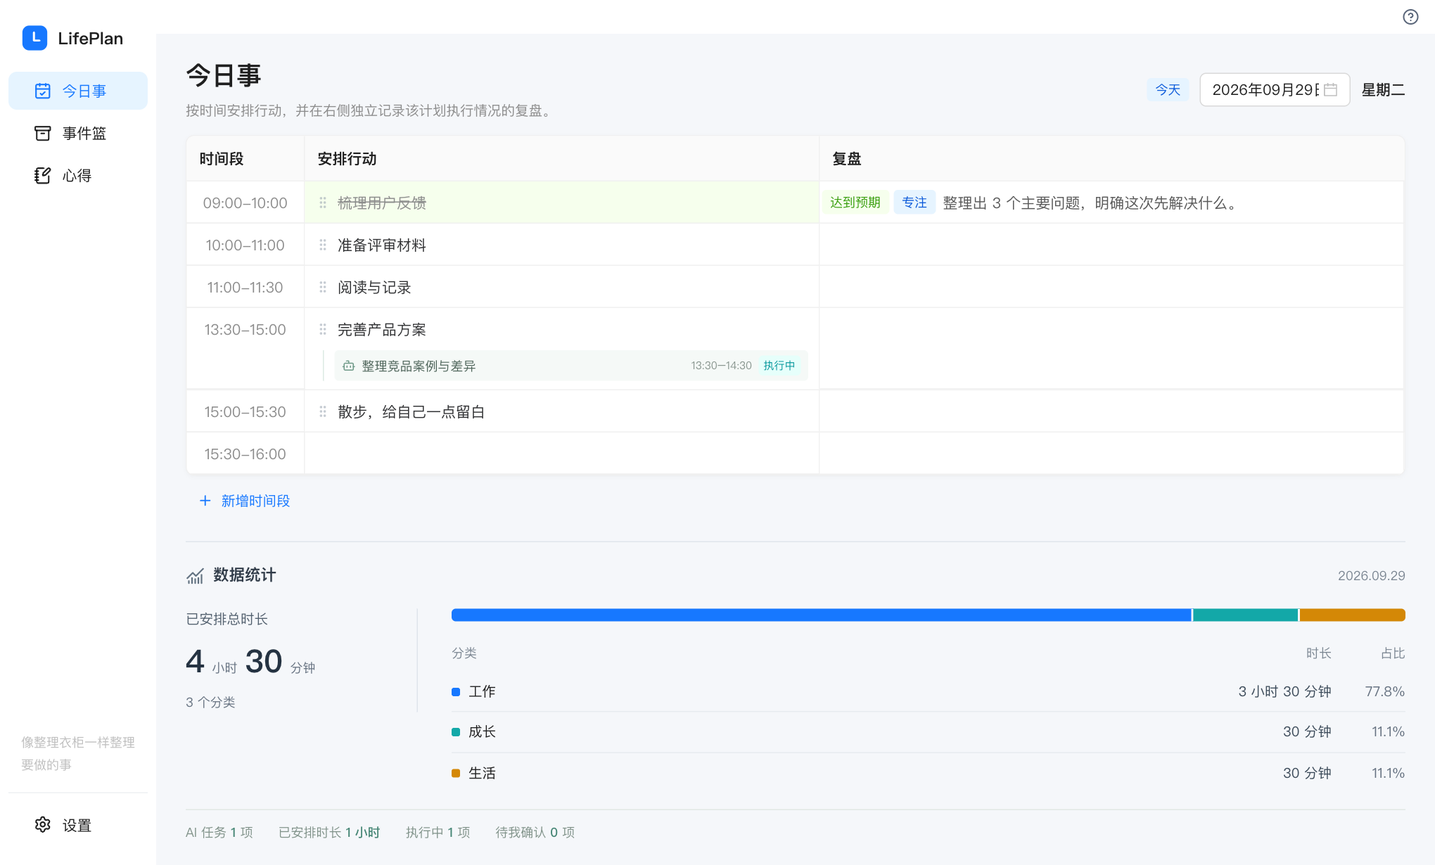
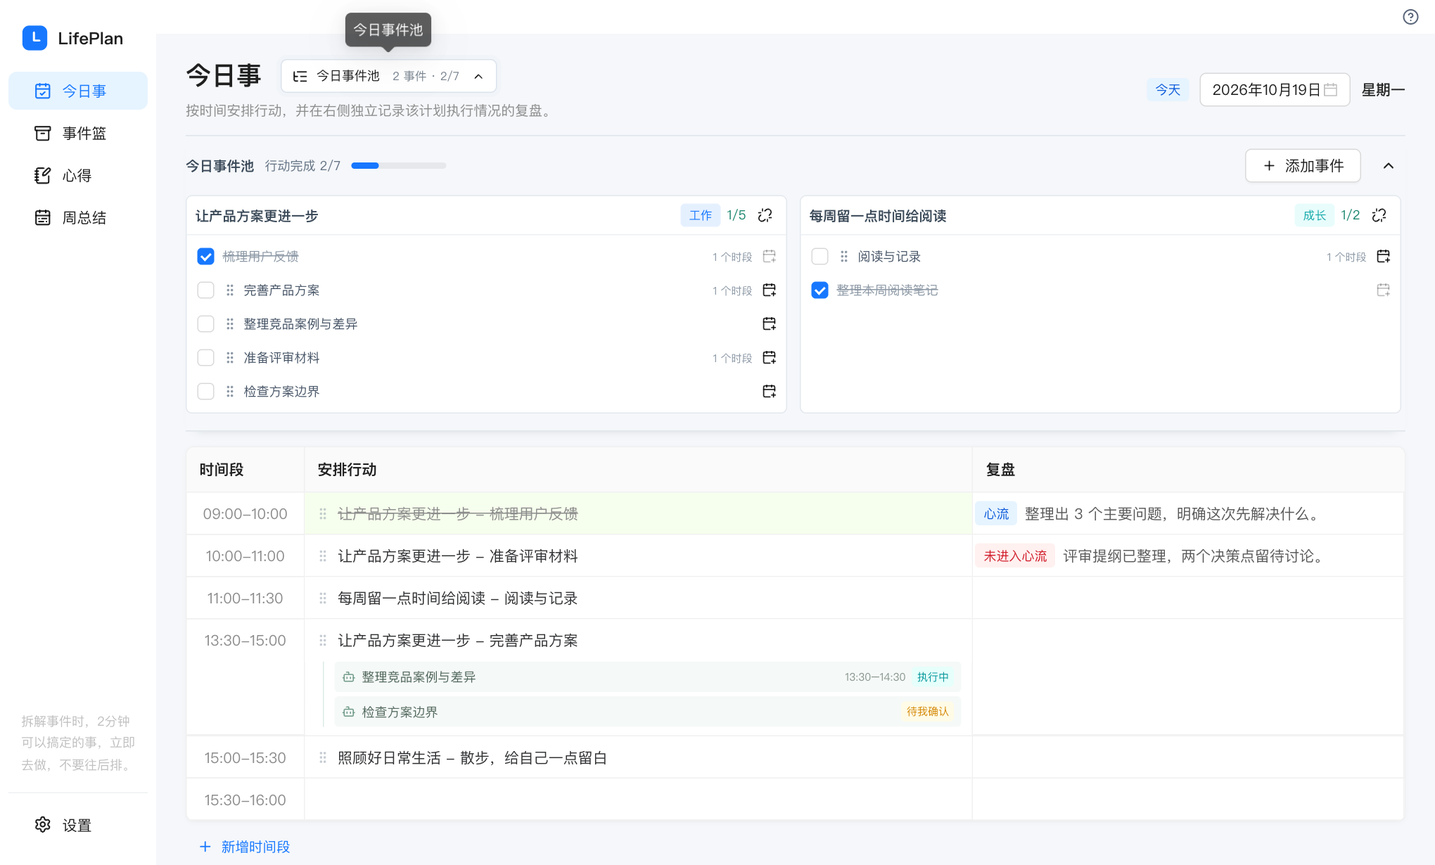
feat(website): refresh product story, screenshots and v1.1.9 downloads
官网补齐待梳理与直接推进、今日事件池吸顶与拖放、心流复盘、当日事项和周总结；新增近期更新与统计口径、升级备份说明。

重拍虚构示例数据的真实客户端界面，图库增加每日回顾和周总结；公开发布 Windows x64 与 macOS Apple Silicon v1.1.9 并校验全部七个发布文件。

补充五种屏幕尺寸、图库放大、键盘导航、升级说明及预期下载版本检查；不改域名首页与用户历史数据。

diff --git a/website/src/main.tsx b/website/src/main.tsx
@@ -1,6 +1,6 @@
 import { useEffect, useRef, useState, type ReactNode } from "react";
 import { createRoot } from "react-dom/client";
-import { ArrowDown, ArrowDownToLine, ArrowRight, ArrowUpRight, BookOpen, Bot, CalendarDays, Check, ChevronDown, CodeXml, Copy, Inbox, Laptop, ListChecks, LockKeyhole, Menu, Monitor, Plus, SlidersHorizontal, X, ZoomIn } from "lucide-react";
+import { ArrowDown, ArrowDownToLine, ArrowRight, ArrowUpRight, BookOpen, Bot, CalendarDays, CalendarRange, ChartNoAxesCombined, Check, ChevronDown, CodeXml, Copy, Inbox, Laptop, ListChecks, LockKeyhole, Menu, Monitor, Plus, SlidersHorizontal, X, ZoomIn } from "lucide-react";
 import downloadData from "./downloads.json";
 import "./styles.css";
 
@@ -11,16 +11,21 @@ const base = import.meta.env.BASE_URL;
 const source = "https://github.com/ouyangyu98/LifePlan";
 const image = (name: string) => `${base}images/${name}.png`;
 const productViews = [
-  { id: "today", label: "今日事", icon: CalendarDays, title: "把行动，放进真实的一天。", description: "按时间安排行动，在同一行记录复盘。做了什么、下一步是什么，一眼就能看清。", alt: "今日事界面：六个时间段、行动、AI 并行任务与复盘", file: "today" },
-  { id: "inbox", label: "事件篮", icon: Inbox, title: "大事拆小，进度一点点积累。", description: "先收集，再拆成可执行的小行动。用分类整理事情，在列表和看板之间自由切换。", alt: "事件篮看板：工作、成长、生活三类事项与子行动", file: "inbox" },
+  { id: "today", label: "今日事", icon: CalendarDays, title: "先选今天的事，再给行动安排时间。", description: "把事件加入默认收起的今日事件池，拖动子行动到空时间段。池子展开后吸顶，晚一点的安排也能从容调整；行动可以直接勾选完成。", alt: "今日事界面：今日事件池、事件与行动标题、AI 并行任务及独立时段复盘", file: "today" },
+  { id: "inbox", label: "事件篮", icon: Inbox, title: "先想清楚，再开始推进。", description: "在“待梳理”里记录想法、拆分和编辑行动。准备好后点“开始推进”，直接进入进行中，已拆的行动完整保留。分类、列表和看板帮助你看清各件事。", alt: "事件篮看板：按工作、成长、生活分类的事件和二级行动", file: "inbox" },
   { id: "insights", label: "心得", icon: BookOpen, title: "留住想法，也留住成长。", description: "一页持续编辑的个人笔记，输入自动保存。值得留下的思考，不必再散落各处。", alt: "心得编辑器：个人行动和 AI 协作的示例笔记", file: "insights" },
+  { id: "statistics", label: "每日回顾", icon: ChartNoAxesCombined, title: "时间去了哪里，事情推进到哪里。", description: "按计划安排的时间段统计分类时长，查看心流时段占比与复盘覆盖率。当天推进、当天完成的行动分开统计，按事件分组、按时长排序，点开即可回看安排与复盘。", alt: "每日数据统计：分类时长、心流时段占比、复盘覆盖率与当日事项分组", file: "statistics" },
+  { id: "weekly", label: "周总结", icon: CalendarRange, title: "回看一周，也给下一周留一点思考。", description: "在一页切换历史周次，查看分类时间分配，写下自动保存的本周思考。下方按事件汇总处理与完成事项，默认收起，需要时再展开细看。", alt: "周总结：历史周记录、分类时间分配、本周思考以及可折叠的本周事项", file: "weekly" },
 ] as const;
 const questions = [
-  { title: "LifePlan 适合什么样的使用方式？", answer: "适合希望把多件事情持续推进的人：在事件篮中整理和拆解，在今日事中分配时间，再记录复盘。既可以管理工作，也可以为学习和生活留出位置。不需要一次启用所有功能。" },
-  { title: "这里的 AI 任务会自动执行吗？", answer: "不会。LifePlan 负责安排和跟踪 AI 任务，你仍需要在自己的 AI 工具中执行，再回到这里更新状态、记录结果。AI 任务挂在主行动下面，不会替代主行动，也不会把并行时间重复算作你的个人时长。" },
+  { title: "LifePlan 适合什么样的使用方式？", answer: "适合希望把多件事情持续推进的人：先在事件篮的待梳理中拆解行动，再开始推进；每天挑选事件放入今日池，拖动行动安排时间，记录进展。一天结束查看当日事项，一周结束写周总结。可以管理工作、学习和生活，不需要一次启用所有功能。" },
+  { title: "这里的 AI 任务会自动执行吗？", answer: "不会。LifePlan 负责安排和跟踪 AI 任务，你仍需要在自己的 AI 工具中执行，再回到这里手动更新状态、记录结果。可以从事件池多选行动，一次挂载到主行动下方；完成 AI 行动不会自动完成主行动，并行时长也不叠加到你的主行动安排时长中。" },
+  { title: "时间、推进事项和完成事项分别怎么算？", answer: "分类时长按已安排行动的时间段统计，不是自动测得的实际工作时长。日统计和周总结中的推进或处理事项，按所选日期或周次安排过的行动去重；完成事项按行动实际标记完成的日期归属，包含没有排入日程的行动。恢复为待办后，不再列入完成事项。事件“已完成”只表示当前状态，不推断历史完成日期。" },
+  { title: "复盘需要再填一次行动标题吗？", answer: "不需要。计划显示事件与行动，复盘记录本时段推进到了哪里、临时改做了什么、遇到了什么阻碍。没有特殊变化时，可点击“按计划推进”填入记录，再确认心流状态并保存；它不会自动把行动标记完成。已有复盘正文会保留。" },
   { title: "需要注册账号吗？数据存在哪里？", answer: "客户端无需注册即可使用，事件、日程和笔记保存在本机。它不是云端同步服务，不同电脑的数据不会自动同步。请妥善保留本地数据和备份。" },
   { title: "会覆盖原版或个人开发版的数据吗？", answer: "不会。安装后的应用名为 LifePlan OY，安装身份、数据目录和更新源均与原版及 LifePlan Dev 分开。首次启动是空白数据，不会自动导入旧数据；切换使用前请先备份，不要直接覆盖数据库。" },
-  { title: "不需要番茄钟、奖励或笔记，可以隐藏吗？", answer: "可以。在设置中按需开启或关闭工作日志、日程模板、奖励池、番茄钟、心得和数据统计。关闭功能不会让它继续占据你的日常界面。" },
+  { title: "不需要番茄钟、奖励或笔记，可以隐藏吗？", answer: "可以。设置里可选工作日志、日程模板、奖励池、番茄钟、心得、周总结、数据统计、AI 并行，以及复盘中的“是否达到预期”。数据统计关闭时也隐藏当日事项；AI 并行关闭时隐藏相关入口和统计。关闭功能不删除已有记录。" },
+  { title: "更新版本会丢失历史数据吗？", answer: "同一 LifePlan OY 正式版沿用原有数据目录，不需要重新导入。客户端启动时会尝试备份数据库，升级前仍建议另行备份事件、日程、笔记以及本地设置。不要删除应用数据目录，也不要用开发版或示例数据库覆盖它。不同版本及不同电脑之间的数据不会自动合并。" },
   { title: "支持哪些设备？", answer: "仅维护 Windows x64 和 Mac M 系列（Apple Silicon）版本。不提供 Mac Intel、iPhone、Android 或 Linux 安装包；这个网站是产品介绍与下载站，不是在线版客户端。" },
   { title: "这是原作者的官方发行版吗？", answer: "不是。这是 ouyangyu98 基于 9527GC/LifePlan 持续维护的独立版本。功能与原版有所不同，源代码、版本说明与问题反馈均在本页面链接的 GitHub 仓库中。" },
 ];
@@ -69,6 +74,7 @@ function Website() {
         <a className="brand" href="#main" aria-label="LifePlan 首页"><img src={image("logo")} alt="" width="30" height="30" /><span>LifePlan</span><span className="edition">个人维护版</span></a>
         <nav className={menuOpen ? "nav-links open" : "nav-links"} aria-label="主导航">
           <a href="#product" onClick={() => setMenuOpen(false)}>产品一览</a>
+          <a href="#updates" onClick={() => setMenuOpen(false)}>近期更新</a>
           <a href="#parallel" onClick={() => setMenuOpen(false)}>与 AI 并行</a>
           <a href="#questions" onClick={() => setMenuOpen(false)}>常见问题</a>
           <ExternalLink href={source} className="source-link"><CodeXml size={17} />源代码<ArrowUpRight size={14} /></ExternalLink>
@@ -83,9 +89,9 @@ function Website() {
           <div className="eyebrow"><span className="status-dot" />给每一天，一个清晰的开始</div>
           <h1 id="hero-title">LifePlan<span className="hero-period">.</span></h1>
           <p className="hero-tagline">从想做，到做到。</p>
-          <p className="hero-description">把事情拆成行动，把行动放进每一天。<br />和 AI 并行推进，也给自己留一点余地。</p>
+          <p className="hero-description">先梳理，再安排，把事情一点点向前推进。<br />和 AI 并行，也用每日复盘与周总结看清自己的节奏。</p>
           <div className="hero-actions"><a href="#downloads" className="button primary">{downloads.version ? "下载 LifePlan" : "查看下载版本"}<ArrowDownToLine size={18} /></a><a href="#product" className="button text-button">先看一看<ArrowDown size={17} /></a></div>
-          <div className="hero-meta"><span>Windows & macOS</span><span>本地保存</span><span>无需注册</span></div>
+          <div className="hero-meta"><span>Windows x64 & Mac M</span><span>本地保存</span><span>无需注册</span></div>
         </div>
         <img className="hero-product" src={image("timeline")} alt="LifePlan 时间表：把每日行动、AI 并行任务和复盘放在一起" width="1764" height="536" fetchPriority="high" />
       </section>
@@ -117,15 +123,15 @@ function Website() {
 
       <section className="parallel-section" id="parallel" aria-labelledby="parallel-title">
         <div className="section">
-          <div className="section-heading"><div><div className="eyebrow">02 / 人与 AI，各自向前</div><h2 id="parallel-title">你在思考。<br /><span>AI 也在推进。</span></h2></div><p>一段时间，不止一条进度。<br />主行动下方，给 AI 的并行任务留一个位置。</p></div>
+          <div className="section-heading"><div><div className="eyebrow">02 / 人与 AI，各自向前</div><h2 id="parallel-title">你在思考。<br /><span>AI 也在推进。</span></h2></div><p>一次选择，挂载多个 AI 行动。<br />从同一事件池出发，分别记录状态与结果。</p></div>
           <div className="parallel-example">
             <div className="example-header"><span><CalendarDays size={16} />一个下午的安排</span><span>13:30 — 15:00</span></div>
-            <img src={image("parallel")} alt="主行动“完善产品方案”下挂载 AI 任务“整理竞品案例与差异”" width="1764" height="126" loading="lazy" />
+            <img src={image("parallel")} alt="主行动“完善产品方案”下并行挂载“整理竞品案例与差异”和“检查方案边界”两个 AI 任务" width="1764" height="190" loading="lazy" />
             <div className="example-legend"><span><span className="legend-dot human" />我负责判断、创作和取舍</span><span><Bot size={17} />AI 整理资料，我回看结果</span></div>
           </div>
           <div className="parallel-notes">
-            <div><span className="small-number">01</span><h3>同一个事件池</h3><p>普通行动和 AI 任务来自同一处，不必维护两套清单。</p></div>
-            <div><span className="small-number">02</span><h3>各自的进度</h3><p>AI 任务有自己的状态和结果，完成它不会自动完成主行动。</p></div>
+            <div><span className="small-number">01</span><h3>多选，一起安排</h3><p>搜索事件或行动，勾选多项后统一挂载。事件行动、重复行动与临时行动沿用原有入口。</p></div>
+            <div><span className="small-number">02</span><h3>跟踪，不替你执行</h3><p>在自己的 AI 工具里执行，回到这里更新状态、回看结果。关联行动的完成状态同步，主行动不受影响。</p></div>
             <div><span className="small-number">03</span><h3>不打扰平常的一天</h3><p>不挂 AI 任务时，照常使用简洁的时间表。</p></div>
           </div>
           <p className="honest-note"><Bot size={16} />LifePlan 记录与跟踪 AI 任务，不代替你在 AI 工具中执行任务。</p>
@@ -135,7 +141,20 @@ function Website() {
       <section className="section choice-section" aria-labelledby="choice-title">
         <div className="choice-copy"><div className="eyebrow">03 / 保留需要的，关掉多余的</div><h2 id="choice-title">工具，应该适应你。</h2><p>不是每一天都需要完整的效率仪式。<br />保留事件篮和今日事，其余功能由你决定。</p><span className="choice-footnote"><SlidersHorizontal size={17} />在客户端设置中按需开启</span></div>
         <div className="optional-list">
-          {[["心得", "持续编辑，自动保存"], ["数据统计", "查看已安排时长与分类占比"], ["番茄钟", "为专注和休息留出节奏"], ["工作日志", "把一天的工作整理成记录"], ["日程模板", "复用适合自己的时间安排"], ["奖励池", "给自己的推进一些鼓励"]].map(([name, detail]) => <div className="optional-item" key={name}><Check size={16} /><span>{name}</span><span>{detail}</span></div>)}
+          {[["心得", "持续编辑，自动保存"], ["周总结", "分类时间分配、事项与个人思考"], ["数据统计", "心流、分类时长与当日事项"], ["AI 并行", "多选挂载，分别跟踪结果"], ["达到预期", "复盘评价按需开启"], ["番茄钟", "为专注和休息留出节奏"], ["工作日志", "把一天的工作整理成记录"], ["日程模板", "复用适合自己的时间安排"], ["奖励池", "给自己的推进一些鼓励"]].map(([name, detail]) => <div className="optional-item" key={name}><Check size={16} /><span>{name}</span><span>{detail}</span></div>)}
+        </div>
+      </section>
+
+      <section className="updates-section" id="updates" aria-labelledby="updates-title">
+        <div className="section">
+          <div className="section-heading"><div><div className="eyebrow">近期更新</div><h2 id="updates-title">从梳理，到每天的推进与回顾。</h2></div>
+            <ExternalLink href={downloads.releaseUrl} className="updates-release-link">{downloads.version ?? "查看版本"} 版本说明<ArrowUpRight size={15} /></ExternalLink>
+          </div>
+          <div className="updates-list">
+            <article><ListChecks size={20} /><div><h3>待梳理，先把下一步想清楚</h3><p>不必先进入进行中，就能添加、编辑和整理行动。“开始推进”直接切换状态，保留原有拆解。</p></div></article>
+            <article><CalendarDays size={20} /><div><h3>今日事件池，拖动安排更顺手</h3><p>选择事件时可查看二级行动。池内直接勾选完成，展开后吸顶，把行动拖到晚间时段也不必来回翻页。</p></div></article>
+            <article><ChartNoAxesCombined size={20} /><div><h3>日统计和周总结，说清推进与完成</h3><p>按安排时长查看分类占比；事项按事件汇总，默认收起、时长排序。复盘不再重复标题，进展和思考各有位置。</p></div></article>
+          </div>
         </div>
       </section>
 
@@ -153,7 +172,7 @@ function Website() {
           </div>
           <p className="copy-status" role="status">{copyError || (copied ? "校验值已复制" : "")}</p>
           <div className="download-footer"><p><LockKeyhole size={16} />无需账号，本地保存。暂不提供手机端与云同步。</p><ExternalLink href={downloads.releaseUrl}>版本说明与历史下载<ArrowUpRight size={15} /></ExternalLink></div>
-          <details className="installation-note"><summary>安装前需要知道什么？<Plus size={16} /></summary><p>安装后的应用名为 LifePlan OY，与原版和 LifePlan Dev 独立存储，首次打开不会自动带入旧数据。下载与你的系统和芯片匹配的安装包，Mac 可在“关于本机”中查看芯片类型。当前尚未提供商业代码签名或 Apple 公证，Mac 安装包使用临时本地签名，系统仍可能拦截；请先确认下载来源与文件校验值，不要关闭系统安全保护。切换版本前，请保留已有数据和备份。</p></details>
+          <details className="installation-note"><summary>安装与更新前需要知道什么？<Plus size={16} /></summary><p>安装后的应用名为 LifePlan OY，与原版和 LifePlan Dev 独立存储。首次安装不会自动带入其他版本的数据；同一正式版更新继续使用原有数据目录，请勿卸载时清除数据。升级前备份事件、日程、笔记和本地设置。下载与你的系统和芯片匹配的安装包，Mac 可在“关于本机”中查看芯片类型。当前尚未提供商业代码签名或 Apple 公证，Mac 安装包使用临时本地签名，系统仍可能拦截；请先确认来源与文件校验值，不要关闭系统安全保护。</p></details>
         </div>
       </section>
 

diff --git a/website/src/styles.css b/website/src/styles.css
@@ -35,7 +35,7 @@ p { line-height: 1.85; }
 .brand { display: inline-flex; align-items: center; gap: 10px; font-size: 23px; font-weight: 650; flex-shrink: 0; }
 .brand img { border-radius: 7px; }
 .edition { font-size: 11px; font-weight: 450; color: var(--muted); border-left: 1px solid var(--line); margin-left: 4px; padding-left: 12px; }
-.nav-links { display: flex; align-items: center; justify-content: flex-end; gap: 27px; margin-left: auto; font-size: 13px; font-weight: 500; }
+.nav-links { display: flex; align-items: center; justify-content: flex-end; gap: 22px; margin-left: auto; font-size: 13px; font-weight: 500; }
 .nav-links a { display: flex; align-items: center; gap: 7px; white-space: nowrap; transition: color .15s; }
 .nav-links a:hover, .footer-links a:hover, .download-footer a:hover { color: var(--blue); }
 .nav-download { display: flex; align-items: center; justify-content: center; gap: 14px; height: 36px; min-width: 82px; padding: 0 14px; border: 1px solid var(--line); border-radius: 5px; font-size: 13px; font-weight: 600; }
@@ -69,7 +69,7 @@ p { line-height: 1.85; }
 h2 { font-size: 36px; line-height: 1.5; font-weight: 600; }
 .section-heading h2, .choice-copy h2, .faq-section h2 { margin-top: 15px; }
 .section-heading > p { font-size: 14px; color: var(--muted); padding-bottom: 5px; }
-.product-tabs { display: flex; border-bottom: 1px solid var(--line); gap: 26px; }
+.product-tabs { display: flex; flex-wrap: wrap; border-bottom: 1px solid var(--line); gap: 0 26px; }
 .product-tabs button { display: flex; align-items: center; gap: 9px; height: 54px; padding: 0 3px; border: 0; background: transparent; color: var(--muted); font-size: 14px; position: relative; }
 .product-tabs button::after { position: absolute; content: ""; height: 2px; bottom: -1px; left: 0; width: 100%; background: transparent; }
 .product-tabs button[aria-selected="true"] { color: var(--blue); font-weight: 600; }
@@ -100,6 +100,15 @@ h2 { font-size: 36px; line-height: 1.5; font-weight: 600; }
 .choice-section { display: grid; grid-template-columns: 1fr 1fr; gap: 90px; align-items: center; }
 .choice-copy > p { margin-top: 20px; font-size: 14px; color: var(--muted); }
 .choice-footnote { display: inline-flex; align-items: center; gap: 8px; margin-top: 28px; color: #7f878f; font-size: 12px; }
+.updates-section { border-top: 1px solid var(--line); background: #fafcfd; }
+.updates-section .section { padding-block: 72px; }
+.updates-section h2 { font-size: 30px; }
+.updates-release-link { display: inline-flex; align-items: center; gap: 8px; color: var(--blue); font-size: 12px; white-space: nowrap; }
+.updates-list { display: grid; grid-template-columns: repeat(3, minmax(0, 1fr)); gap: 32px; }
+.updates-list article { display: flex; align-items: flex-start; gap: 12px; min-width: 0; }
+.updates-list article > svg { color: var(--teal); margin-top: 2px; }
+.updates-list h3 { font-size: 16px; font-weight: 550; line-height: 1.6; }
+.updates-list p { font-size: 13px; color: var(--muted); margin-top: 10px; }
 .optional-item { display: grid; grid-template-columns: 18px 92px 1fr; align-items: center; gap: 12px; padding: 19px 0; border-bottom: 1px solid var(--line); font-size: 13px; }
 .optional-item:first-child { border-top: 1px solid var(--line); }
 .optional-item > svg { color: #88939f; }
@@ -201,7 +210,7 @@ summary::-webkit-details-marker { display: none; }
   .eyebrow { font-size: 11px; }
   .section-heading { display: block; margin-bottom: 26px; }
   .section-heading > p { margin-top: 19px; font-size: 13px; }
-  .product-tabs { gap: 22px; }
+  .product-tabs { gap: 0 18px; }
   .product-tabs button { font-size: 13px; gap: 7px; }
   .optional-label { display: none; }
   .product-image-button { margin-top: 20px; }
@@ -224,6 +233,10 @@ summary::-webkit-details-marker { display: none; }
   .choice-section { grid-template-columns: 1fr; gap: 30px; }
   .choice-copy > p { font-size: 13px; }
   .choice-footnote { margin-top: 20px; font-size: 11px; }
+  .updates-section .section { padding-block: 55px; }
+  .updates-section h2 { font-size: 25px; }
+  .updates-release-link { margin-top: 16px; }
+  .updates-list { grid-template-columns: 1fr; gap: 24px; }
   .optional-item { grid-template-columns: 16px 83px 1fr; gap: 9px; padding: 16px 0; font-size: 12px; }
   .optional-item > span:last-child { font-size: 11px; }
   .download-section .section { padding-top: 58px; padding-bottom: 45px; }

diff --git a/website/index.html b/website/index.html
@@ -4,10 +4,10 @@
     <meta charset="UTF-8" />
     <meta name="viewport" content="width=device-width, initial-scale=1.0" />
     <meta name="theme-color" content="#fafbfc" />
-    <meta name="description" content="LifePlan 个人维护版：把事情拆成行动，安排到每天，记录与 AI 并行推进的过程。查看真实产品界面，下载 Windows 与 macOS 客户端。" />
+    <meta name="description" content="LifePlan 个人维护版：待梳理拆行动、今日事件池拖动安排、AI 多选并行，配合心流复盘、每日事项和周总结。下载 Windows x64 与 Mac M 系列客户端，本地保存，无需注册。" />
     <meta property="og:type" content="website" />
     <meta property="og:title" content="LifePlan · 从想做，到做到" />
-    <meta property="og:description" content="把事情拆成行动，把行动放进每一天。个人行动与 AI 并行任务，在同一张日程里有条不紊。" />
+    <meta property="og:description" content="先梳理，再安排：今日事件池、AI 并行、心流复盘与周总结，帮你看清每天推进了什么。" />
     <meta property="og:url" content="https://ouyangyu.tech/life/" />
     <meta property="og:image" content="https://ouyangyu.tech/life/images/today.png" />
     <meta name="twitter:card" content="summary_large_image" />

diff --git a/website/README.md b/website/README.md
@@ -31,6 +31,9 @@ Set `PLAYWRIGHT_PATH` to an existing Playwright installation when needed.
 The app development server must already be running on port 1420.
 
 Never publish screenshots from the user's real desktop session.
+The gallery includes Today's schedule and event pool, the event board, Insights,
+daily review statistics and Weekly summaries. All captures use fictional fixtures
+against the current application; no installed client or personal database is read.
 
 ## Downloads
 
@@ -66,6 +69,8 @@ Tests cover desktop/mobile overflow, image loading, the first viewport,
 navigation, gallery keyboard interaction, the image dialog, FAQs and downloads.
 Set `WEBSITE_REQUIRE_DOWNLOADS=1` after publication to require working links
 for both platforms and to check expanded checksums on mobile.
+Set `WEBSITE_EXPECT_VERSION=vX.Y.Z` when verifying a deployment to reject stale
+release badges or installer links, even if the rest of the page still loads.
 
 ## Deployment
 
